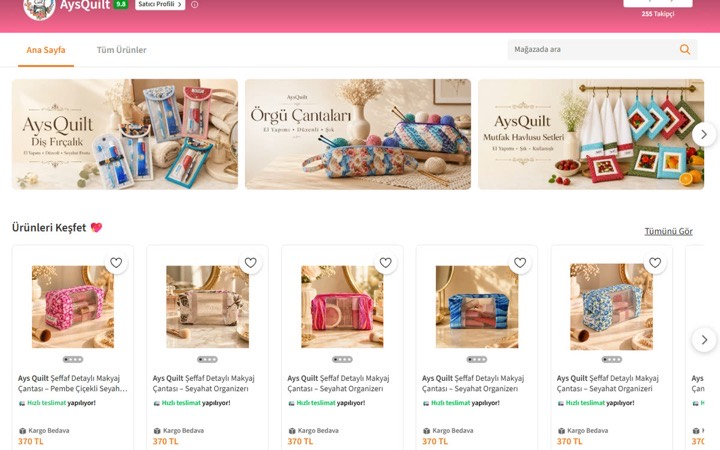
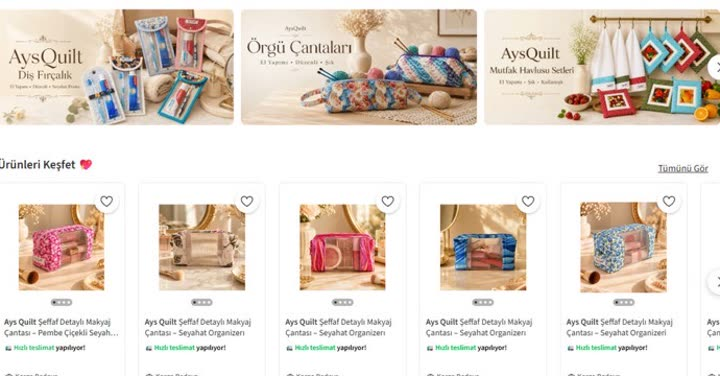
Proje kartlarının görsel alanını düzelt, sıralamayı uygulama önceliğine al
Sıralama artık kasıtlı: önce mobil uygulamalar (İkra, SnapPet, Pofu,
Habitile, PhotoSensia), sonra markalı oyunlar (Date For Dead, Logo
Yazılım × KidZania), sonra web ve e-ticaret (Divonia, AysQuilt). Hem
Projeler sayfası hem ana sayfadaki öne çıkanlar aynı diziden okuyor;
öne çıkanlar İkra, SnapPet, Date For Dead oldu.

Görsel alanının üç net biçimi var:

1. Uygulama ikonu — ikon 16:10 kutunun ortasında küçücük yüzüyor,
   kenarlarda kocaman boşluk kalıyordu. Artık arkada ikonun büyütülüp
   bulanıklaştırılmış kopyası bir renk alanı kuruyor, önde yuvarlatılmış
   köşeli net ikon duruyor. Her kartın zemini kendi uygulamasının
   renginden geliyor.
2. Fotoğraf — kutuyu tamamen dolduruyor (değişmedi).
3. Görselsiz — hizmet ikonu, sessiz bir alan. Eski hâli kartın başlığını
   ortaya yazıyordu.

Görsel düzeltmeleri:
- PhotoSensia'nın görseli aslında kırpılmış bir uygulama ikonuydu; "KIDS"
  yazısı kesiliyordu ve kaynakta tamamı yok. Düzgün sürümü gelene kadar
  görselsiz gösteriliyor.
- AysQuilt bütün bir Trendyol sayfası ekran görüntüsüydü, kart boyutunda
  okunmuyordu. Mağazanın kendi banner'ları ve ürün satırı kalacak şekilde
  yeniden çerçevelendi, Trendyol arayüzü kırpıldı.

Izgara deseni dörtte birden üçte bire çevrildi: geniş kart bir önceki dar
kartın yanına sığmadığı için her dört kartta bir boş hücre kalıyordu.
1 geniş + 2 dar deseniyle dokuz kart altı satıra boşluksuz oturuyor.

diff --git a/src/data/projects.ts b/src/data/projects.ts
@@ -31,31 +31,12 @@ export const platformOf: Partial<Record<ProjectLinkKind, string>> = {
   steam: "PC",
 };
 
+/*
+ * Sıralama kasıtlı: önce mobil uygulamalar, sonra markalı oyunlar,
+ * sonra web ve e-ticaret işleri. Hem Projeler sayfası hem ana sayfadaki
+ * öne çıkanlar bu diziden okuyor.
+ */
 export const projects: Project[] = [
-  {
-    slug: "logo-kidzania",
-    title: "Logo Yazılım × KidZania İstanbul",
-    service: "markali-oyunlar",
-    year: 2026,
-    image: "logo-kidzania.jpg",
-    summary: {
-      tr: "KidZania İstanbul'daki Logo Yazılım Yazılım Geliştirme Merkezi için kurgulanan interaktif deneyim. Çocuklar gerçek bir yazılım ekibi gibi çalışıp kendi projelerini üretiyor.",
-      en: "An interactive experience built for the Logo Yazılım Software Development Centre at KidZania İstanbul, where children work like a real software team and ship their own projects.",
-    },
-    links: [{ kind: "web", url: "https://istanbul.kidzania.com/yazilim-gelistirme-merkezi" }],
-  },
-  {
-    slug: "date-for-dead",
-    title: "Date For Dead",
-    service: "markali-oyunlar",
-    year: 2026,
-    image: "date-for-dead.jpg",
-    summary: {
-      tr: "Steam'de yayınlanan, mezarlıkta geçen kara mizahlı bir flört oyunu. Elle çizilmiş sanat yönetimi ve kendine özgü oynanış döngüsü.",
-      en: "A darkly comic dating game set in a graveyard, released on Steam. Hand-drawn art direction and a gameplay loop of its own.",
-    },
-    links: [{ kind: "steam", url: "https://store.steampowered.com/app/4622170/Date_For_Dead/" }],
-  },
   {
     slug: "ikra",
     title: "İkra",
@@ -91,21 +72,6 @@ export const projects: Project[] = [
     ],
   },
   {
-    slug: "photosensia",
-    title: "PhotoSensia Kids",
-    service: "mobil-uygulama",
-    year: 2026,
-    image: "photosensia.jpg",
-    summary: {
-      tr: "Çocuklar için tasarlanmış, sade ve güvenli bir fotoğraf uygulaması. App Store ve Google Play'de yayında.",
-      en: "A simple, safe photo app designed for children. Live on the App Store and Google Play.",
-    },
-    links: [
-      { kind: "appstore", url: "https://apps.apple.com/app/id6624305795" },
-      { kind: "playstore", url: "https://play.google.com/store/apps/details?id=com.photosensia.photosensiaforkids" },
-    ],
-  },
-  {
     slug: "pofu",
     title: "Pofu",
     service: "mobil-uygulama",
@@ -133,6 +99,44 @@ export const projects: Project[] = [
       en: "A calm, widget-first habit tracker. Check habits with one tap from the Home Screen, Lock Screen or Apple Watch, and forgiving streaks mean one missed day won't wipe your progress. Live in six languages.",
     },
     links: [{ kind: "appstore", url: "https://apps.apple.com/app/id6779264379" }],
+  },
+  {
+    slug: "photosensia",
+    title: "PhotoSensia Kids",
+    service: "mobil-uygulama",
+    year: 2026,
+    summary: {
+      tr: "Çocuklar için tasarlanmış, sade ve güvenli bir fotoğraf uygulaması. App Store ve Google Play'de yayında.",
+      en: "A simple, safe photo app designed for children. Live on the App Store and Google Play.",
+    },
+    links: [
+      { kind: "appstore", url: "https://apps.apple.com/app/id6624305795" },
+      { kind: "playstore", url: "https://play.google.com/store/apps/details?id=com.photosensia.photosensiaforkids" },
+    ],
+  },
+  {
+    slug: "date-for-dead",
+    title: "Date For Dead",
+    service: "markali-oyunlar",
+    year: 2026,
+    image: "date-for-dead.jpg",
+    summary: {
+      tr: "Steam'de yayınlanan, mezarlıkta geçen kara mizahlı bir flört oyunu. Elle çizilmiş sanat yönetimi ve kendine özgü oynanış döngüsü.",
+      en: "A darkly comic dating game set in a graveyard, released on Steam. Hand-drawn art direction and a gameplay loop of its own.",
+    },
+    links: [{ kind: "steam", url: "https://store.steampowered.com/app/4622170/Date_For_Dead/" }],
+  },
+  {
+    slug: "logo-kidzania",
+    title: "Logo Yazılım × KidZania İstanbul",
+    service: "markali-oyunlar",
+    year: 2026,
+    image: "logo-kidzania.jpg",
+    summary: {
+      tr: "KidZania İstanbul'daki Logo Yazılım Yazılım Geliştirme Merkezi için kurgulanan interaktif deneyim. Çocuklar gerçek bir yazılım ekibi gibi çalışıp kendi projelerini üretiyor.",
+      en: "An interactive experience built for the Logo Yazılım Software Development Centre at KidZania İstanbul, where children work like a real software team and ship their own projects.",
+    },
+    links: [{ kind: "web", url: "https://istanbul.kidzania.com/yazilim-gelistirme-merkezi" }],
   },
   {
     slug: "divonia",
@@ -163,7 +167,7 @@ export const projects: Project[] = [
 ];
 
 /** Ana sayfada gösterilecek öne çıkanlar. */
-export const featuredSlugs = ["logo-kidzania", "date-for-dead", "ikra"] as const;
+export const featuredSlugs = ["ikra", "snappet", "date-for-dead"] as const;
 
 export function serviceOf(project: Project): ServiceSlug {
   return project.service;

diff --git a/src/components/ProjectCard.tsx b/src/components/ProjectCard.tsx
@@ -1,3 +1,4 @@
+import { ServiceIcon } from "./ServiceIcon";
 import { type Project, platformOf } from "@/data/projects";
 import type { Locale } from "@/i18n/config";
 import type { Dictionary } from "@/i18n/dictionaries";
@@ -25,28 +26,53 @@ export function ProjectCard({
         featured ? "sm:col-span-2" : ""
       }`}
     >
+      {/*
+        Görsel alanının üç biçimi var:
+        1. ikon  — uygulama ikonu; arkada kendi bulanık büyütülmüş kopyası,
+                   önde yuvarlatılmış köşeli net ikon. Daha önce ikon geniş
+                   kutunun ortasında küçücük yüzüyordu, kenarlarda kocaman
+                   boşluk kalıyordu.
+        2. fotoğraf — kutuyu tamamen dolduran görsel.
+        3. görselsiz — hizmet ikonu, sessiz bir alan. Kötü bir ekran
+                   görüntüsü koymaktansa boş bırakmak daha iyi duruyor.
+      */}
       <div
         className={`bg-surface-soft relative z-10 overflow-hidden ${
           featured ? "aspect-[16/8]" : "aspect-[16/10]"
         }`}
       >
-        {project.image ? (
+        {project.image && project.iconStyle ? (
+          <div className="icon-stage">
+            {/* eslint-disable-next-line @next/next/no-img-element */}
+            <img
+              src={`/projeler/${project.image}`}
+              alt=""
+              aria-hidden="true"
+              loading="lazy"
+              className="icon-stage-bg"
+            />
+            {/* eslint-disable-next-line @next/next/no-img-element */}
+            <img
+              src={`/projeler/${project.image}`}
+              alt={project.title}
+              loading="lazy"
+              className="icon-stage-fg"
+            />
+          </div>
+        ) : project.image ? (
           /* eslint-disable-next-line @next/next/no-img-element */
           <img
             src={`/projeler/${project.image}`}
             alt={project.title}
             loading="lazy"
-            className={
-              project.iconStyle
-                ? "mx-auto h-full w-auto py-8"
-                : "h-full w-full object-cover"
-            }
+            className="h-full w-full object-cover"
           />
         ) : (
-          <div className="flex h-full items-center justify-center">
-            <span className="text-muted font-display text-2xl font-semibold">
-              {project.title}
-            </span>
+          <div
+            className="text-line-strong flex h-full items-center justify-center"
+            aria-hidden="true"
+          >
+            <ServiceIcon slug={project.service} className="h-12 w-12" />
           </div>
         )}
       </div>

diff --git a/src/app/globals.css b/src/app/globals.css
@@ -817,3 +817,52 @@ html.lenis body {
       100% 1px;
   }
 }
+
+/* ---------------------------------------------------------------
+   Proje kartındaki uygulama ikonu sahnesi
+   --------------------------------------------------------------- */
+
+@layer utilities {
+  /*
+   * Kare ikon geniş bir kutuya yerleşmiyor. Çözüm App Store'un yaptığının
+   * aynısı: arkada ikonun büyütülüp bulanıklaştırılmış kopyası bir renk
+   * alanı kuruyor, önde net ikon duruyor. Böylece kutu doluyor ve her
+   * kartın zemini kendi uygulamasının renginden geliyor.
+   */
+  .icon-stage {
+    position: relative;
+    display: flex;
+    height: 100%;
+    align-items: center;
+    justify-content: center;
+    overflow: hidden;
+  }
+
+  .icon-stage-bg {
+    position: absolute;
+    inset: -25%;
+    width: 150%;
+    height: 150%;
+    object-fit: cover;
+    filter: blur(38px) saturate(1.25);
+    opacity: 0.55;
+    pointer-events: none;
+  }
+
+  .icon-stage-fg {
+    position: relative;
+    height: 58%;
+    width: auto;
+    aspect-ratio: 1;
+    /* Köşe yarıçapı iOS'un squircle oranına yakın */
+    border-radius: 22.5%;
+    box-shadow:
+      0 18px 44px -14px rgb(0 0 0 / 0.55),
+      0 0 0 1px rgb(255 255 255 / 0.06);
+  }
+
+  /* Öne çıkan kart daha yayvan; ikon oransal olarak büyüyebilir */
+  .sm\:col-span-2 .icon-stage-fg {
+    height: 66%;
+  }
+}

diff --git a/src/components/pages/ProjectsContent.tsx b/src/components/pages/ProjectsContent.tsx
@@ -31,14 +31,19 @@ export function ProjectsContent({ locale, dict }: PageContentProps) {
               <div
                 key={project.slug}
                 data-reveal
-                data-reveal-delay={(index % 2) * 100}
-                className={index % 4 === 0 ? "sm:col-span-2" : ""}
+                data-reveal-delay={(index % 3) * 100}
+                /*
+                 * Her üçüncü kart tam genişlikte: 1 geniş + 2 dar deseni
+                 * ızgarayı boşluksuz dolduruyor. Dörtte bir desende geniş
+                 * kart sıraya sığmadığı için yanında boş hücre kalıyordu.
+                 */
+                className={index % 3 === 0 ? "sm:col-span-2" : ""}
               >
                 <ProjectCard
                   project={project}
                   locale={locale}
                   dict={dict}
-                  featured={index % 4 === 0}
+                  featured={index % 3 === 0}
                 />
               </div>
             ))}
